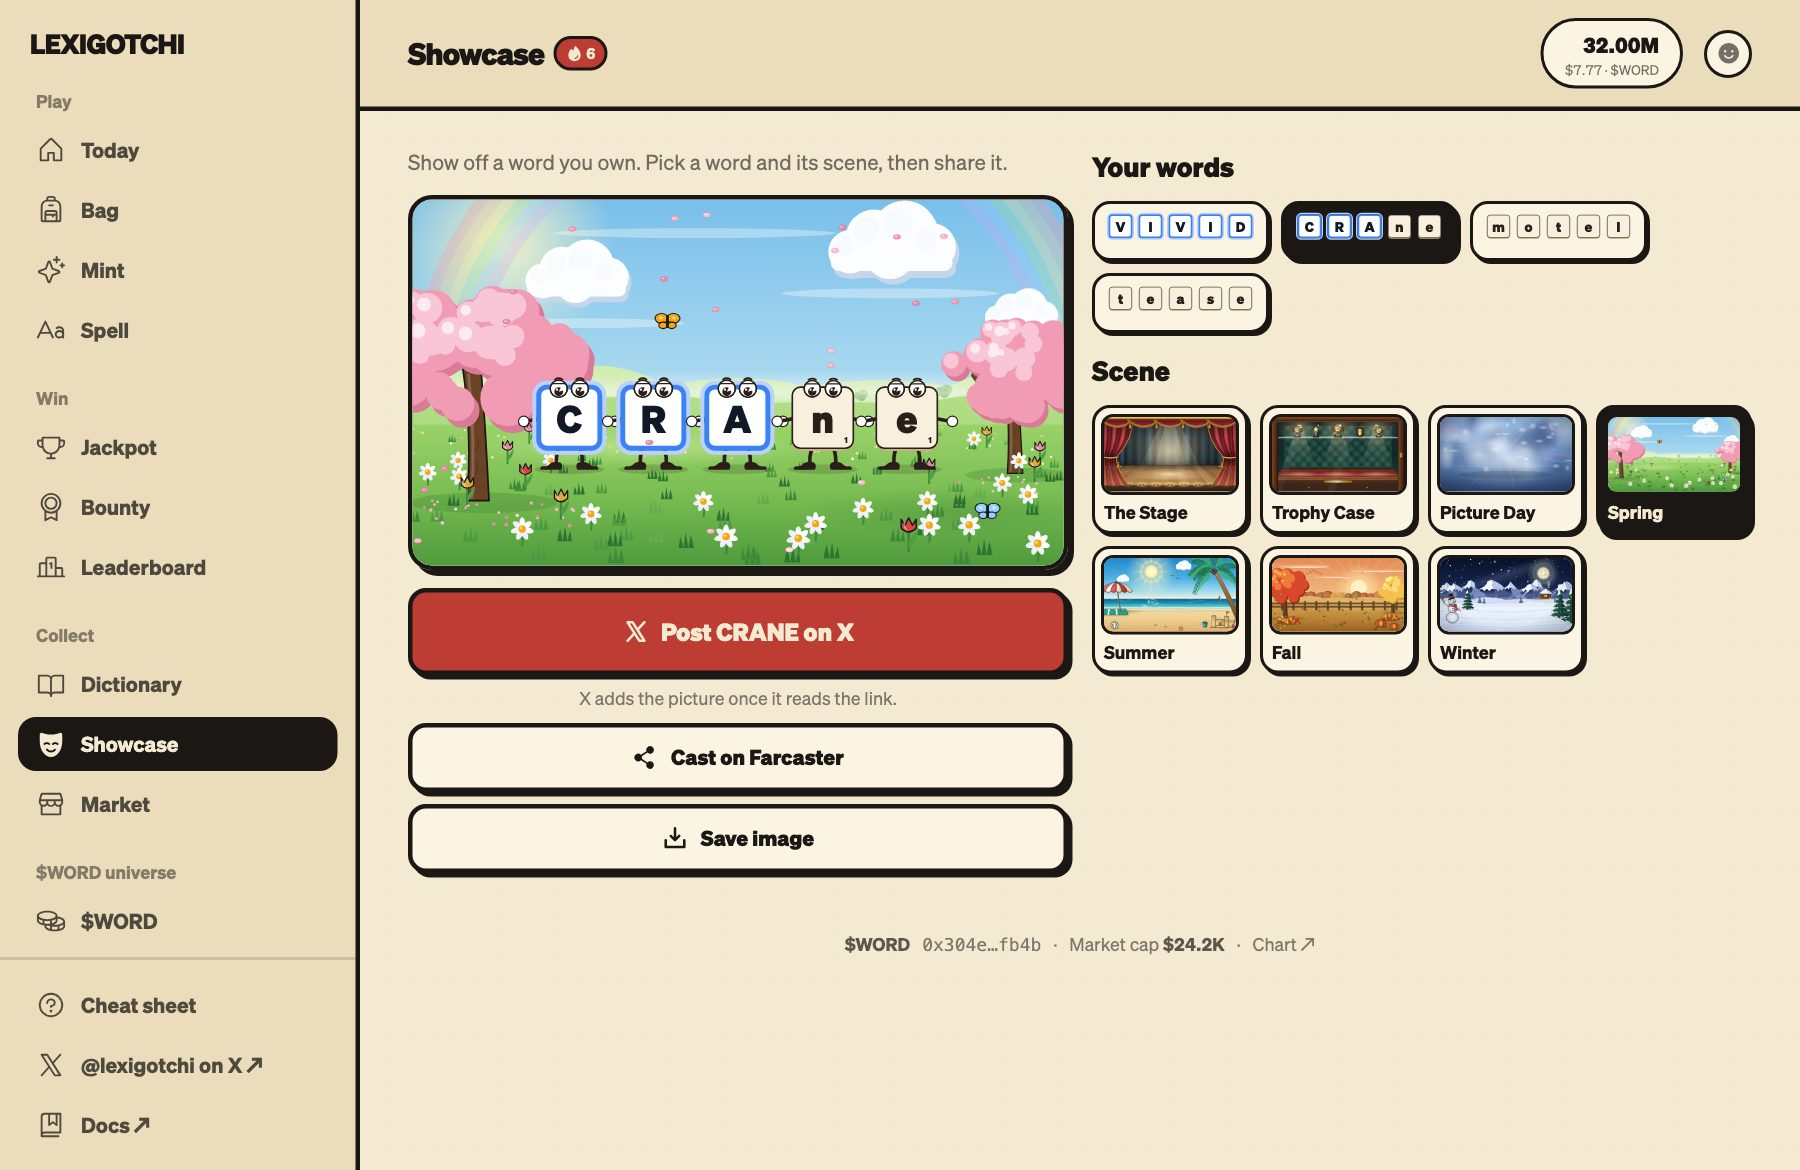
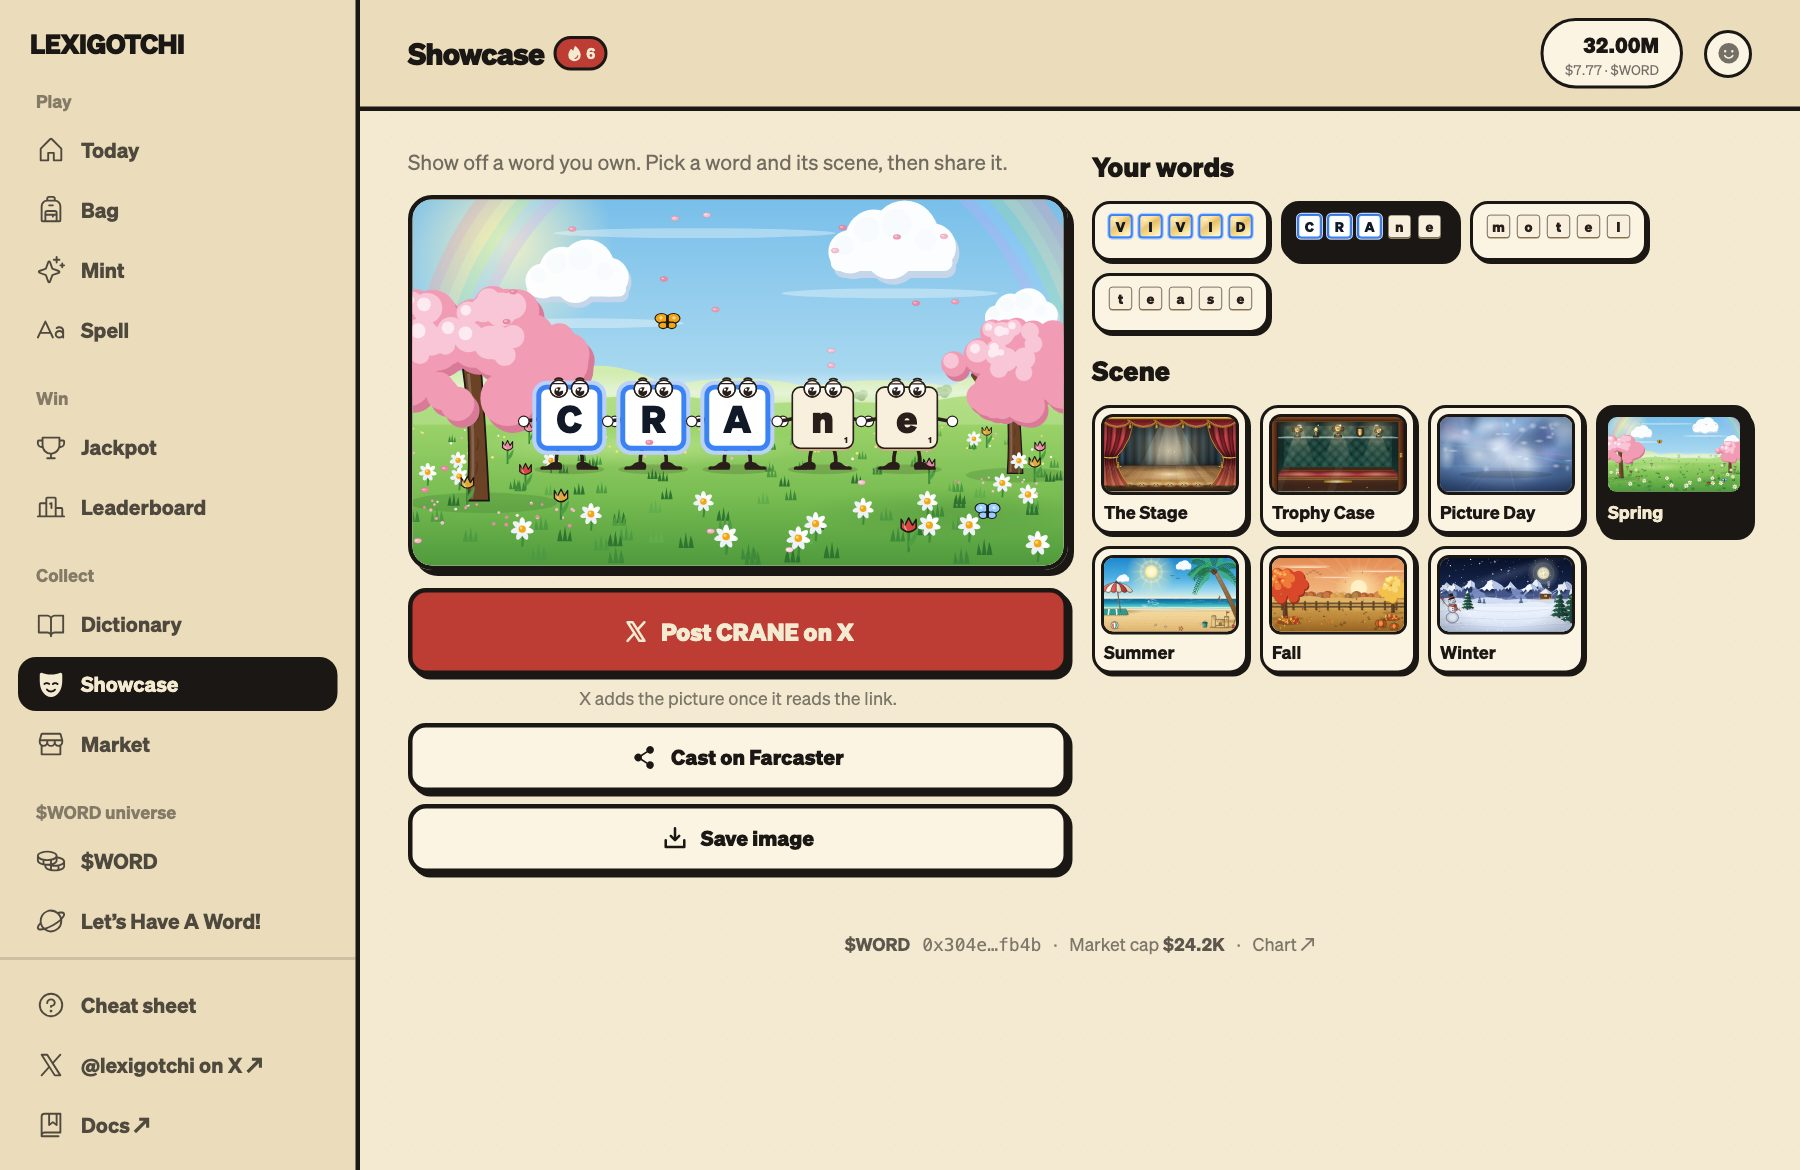
Decision #22, CLAUDE.md, and fresh screenshots for the rarity finishes

Changed region(s): [[0.0, 0.5231, 0.1867, 0.8], [0.0, 0.4308, 0.1244, 0.4923], [0.5911, 0.1846, 0.7156, 0.2154]]

diff --git a/docs/decisions.md b/docs/decisions.md
@@ -394,6 +394,35 @@ setter. All small, riding existing suite patterns.
       once per profile. Amends #1 (one free letter a day, forever) and #2 (the pack only for the
       campaign). All free letters share a budget of 30,000 (`FREE_LETTER_BUDGET`), and free grants stop
       when the dictionary is about 95% claimed. Server-side only: no contract changes.
+22. **Rarity shows on the tiles, and the top two tiers are renamed** (starl3xx, 2026-11-25: "the
+    rarity of the letters is ultra important... it should be delightful and amazing and make people
+    WANT better rarities"; chosen over several rounds of mocks).
+    - **Rename:** Epic becomes **Legendary**, and the old Legendary becomes **Mythic**. Weights,
+      counts, and cuts are unchanged (Legendary 184 words, weight 5; Mythic 46, weight 8). The
+      contracts rank tiers by number, so nothing onchain moves (`npm run derive:contracts` gives no
+      diff). Earlier entries here keep the old names: read their "Epic" as Legendary and their
+      "Legendary" as Mythic.
+    - **Finishes:** each tier above Common wears a subtle, translucent material on its letter
+      tiles (`lib/rarityFinish.ts`, `components/game/TileFinish.tsx`): Uncommon satin jade, Rare
+      sapphire foil, Legendary polished gold with engraved scrollwork, Mythic cut amethyst with
+      spectral fire. Common stays plain. Rainbow belongs to Holographic ascension (#19) and Mythic's
+      fire only. A peckish word's shine dims; a hungry word's goes until it's fed.
+    - **The light moves in moments, not loops** (starl3xx: the mocks were "melting my laptop's GPU…
+      make it as efficient as possible across all devices"). Every tier's period (7–10 s), the word in
+      focus gets one moment: a light crosses it letter by letter, then everything rests. Looping the
+      same effects on every tile kept a 4×-slowed phone's main thread at 99% (a Common word: 37%). In
+      moments, the share page costs 16% (Legendary) and 26% (Mythic) over 12 s at 4× slowed. Only
+      full-size words move, only on screen, never under reduced motion or Save-Data or on a phone
+      with 2 GB or less. Lists draw still tiles. The core count isn't a test: WebKit reports at most
+      2 on iOS, which would have kept every iPhone still.
+    - **Share cards draw each finish as a still** (`app/_og/tile.tsx`, the same geometry). **No name on
+      a link card** (starl3xx: the old pill under the word "looks cheap/misplaced and makes the card
+      look imbalanced"): X prints the site under the card and the post tags @lexigotchi. A picture
+      that travels alone (Save image, the Telegram welcome, later the share video) carries a quiet
+      corner wordmark (`?saved=1`). Cards cache a week at the edge, so a link shared before this
+      keeps its old card until then.
+    - Next, in order: scene cards with backs and the Showcase folded into the Bag; live backs drawn
+      with OGL; the share loop (front, turn, back).
 
 ## Pricing & launch economics (decided June 2026)
 

diff --git a/CLAUDE.md b/CLAUDE.md
@@ -341,6 +341,19 @@ for the mini app; sim/economy core is **zero-runtime-dependency TS** (runs via `
   player already has: keyed by the wallet holding the word, writable by any wallet in the session's
   profile account, never prompting a sign-in (`useWordScene`, `useSceneSync` uploads waiting picks);
   the newer pick wins. Dark with profiles; until migration 0011 runs, everything stays in the browser.
+- **Rarity finishes** (decisions.md #22): tiers are Common, Uncommon, Rare, **Legendary** (was Epic),
+  **Mythic** (was Legendary); `MYTHICS` replaced `LEGENDARIES`. Each tier above Common wears a
+  material on its tiles (`lib/rarityFinish.ts` = the table; `components/game/TileFinish.tsx` = the
+  layers; pass `tier` to `TileCharacter`/`TileWord`/`WordTiles`/`SceneFrame`). **Motion is moments,
+  never loops** (`useFinishMoment` adds `.rf-moment` to the word's row every tier period; globals.css
+  `rf-*`; `tests/rarity-finish.test.tsx` fails on an `rf-` animation outside `.rf-moment`, on
+  `infinite`, or on a dash-offset animation): only full-size words, on screen, not hungry, not under
+  reduced motion, Save-Data, or 2 GB memory. Never gate motion on `hardwareConcurrency` (iOS reports
+  2). Measure a change with CPU throttled 4× before shipping it (looping finishes hit 99%). The share
+  card draws the still in `app/_og/tile.tsx` with Satori's rules (plain elements, shared geometry
+  from TileFinish). **No name on link cards; `?saved=1` adds the corner wordmark** (Save image, the
+  Telegram welcome). Next steps (not built): scene cards with backs, the Showcase folded into the
+  Bag, live backs with OGL, the share loop.
 - **Today is the player's dashboard** (`screens/HomeScreen.tsx`; starl3xx, 2026-11-24): their words on
   stage (`TodayStage`) top left, their letters (`TodayLetters`: the free daily letter, loose letters
   UPPERCASE first to a limit, Spell, Mint) top right, the jackpot under the words, next steps under
